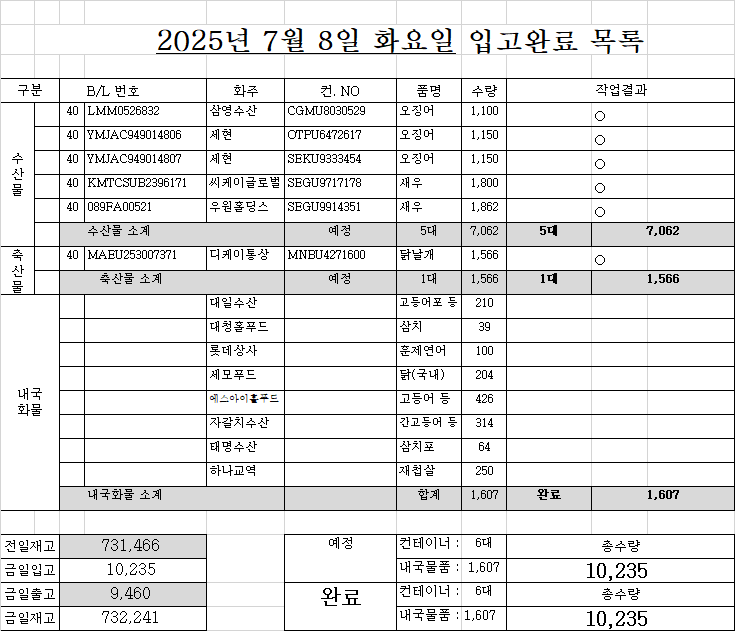
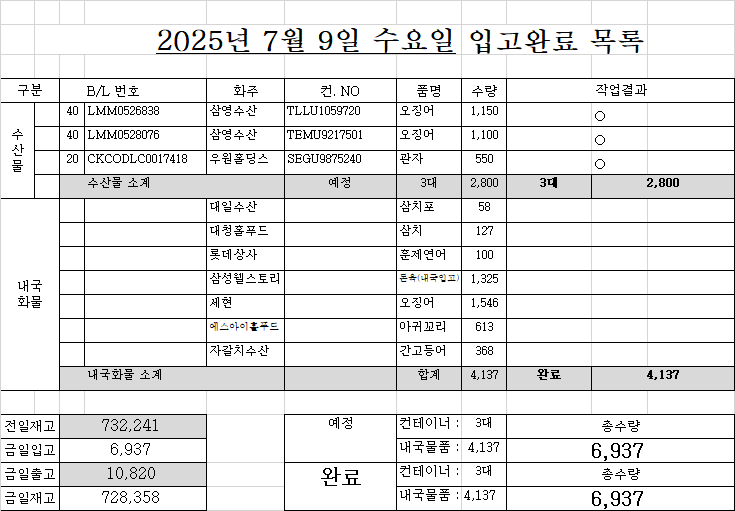
ㄴㅇㄹㄴㅇㄹ

diff --git a/list.html b/list.html
@@ -118,36 +118,36 @@
 </div>
 <!-- ★★★★★★ 따로 빼 놔야한다. 복붙하면 첫칸 비어도 되는데, 여기서는 첫칸비우면 당겨진다. -->
 <!-- ★ 엑셀범위를 브라우저 textarea에 붙여넣으면 첫셀 비어도 제대로 되는데... HTML에 붙여놓은 자료는 처음셀이 비어있으면 당겨짐 -->
-<div class="d-none" id="원본text_리스트1부터w요약열까지">작성	면허	B/LNO.	화주	컨테이너NO.	품명	수량	반입NO.	입항일	구분	도착일	도착시간	구분	운.도VBA	07/08 화 16:29	화찰BL	화찰 선명	화물관리번호	화찰수량	화찰중량	화찰입항	리스트시트기준열	
-1		CKCODLC0017418	우원홀딩스	SEGU9875240	관자	550 	BPT감만	7/6	1			20 	BPT감만			EASLINE LIANYUNGANG					07/08 화 16:29	
-1	○	LMM0526838	삼영수산	TLLU1059720	오징어	1,150 	EZ신항.BNCT	7/8	1				EZ신항.BNCT		LMM0526838	CMA CGM GANGES	25CMAL0350I-2046-	1,150 	24,230.00 	2025.07.08	조회정보	
-1	○	LMM0528076	삼영수산	TEMU9217501	오징어	1,100 	EZ신항.BNCT	7/8	1				EZ신항.BNCT		LMM0528076	CMA CGM GANGES	25CMAL0350I-2100-	1,100 	24,290.00 	2025.07.08	적재	57 
-1		SGN500863600	씨케이글로벌	PCIU6107758	새우	2,100 	BPT신선대	7/8	1				BPT신선대			KOTA GAYA					4,617 	3줄
-1	○	INFHCM2506136	우원홀딩스	SZLU2038230	새우	800 		7/8	1			20 			INFHCM2506136	KOTA GAYA	25PILK0067I-5051-0001	800 	6,400.00 	2025.07.08	6,156 	4줄
-1	○	MEDUP3933363	세현	TEMU9051236	오징어	1,150 	PNIT	7/9	1				PNIT		MEDUP3933363	MSC NOA ARIELA	25MSCU6135I-0004-	1,150 	24,940.00 	2025.07.08	7,695 	5줄
-1	○	MEDUP3933389	세현	TEMU9212900	오징어	1,149 	PNIT	7/9	1				PNIT		MEDUP3933389	MSC NOA ARIELA	25MSCU6135I-0005-	1,149 	24,470.00 	2025.07.08	9,234 	6줄
-1	○	MEDUP3933405	세현	CRSU6127452	오징어	1,150 	PNIT	7/9	1				PNIT		MEDUP3933405	MSC NOA ARIELA	25MSCU6135I-0003-	1,150 	24,650.00 	2025.07.08		
-		SNKO190250601634	대상 주식회사	FBIU5101516	닭다리살	2,310 	BPT신선대	7/9	2				BPT신선대			DONGJIN CONFIDENT					출고/입고 4주간	
-		COSU6413958750	대상 주식회사	SZLU9668776	닭다리살	1,916 	BNCT	7/10	2				BNCT			COSCO FAITH					1일 7/5	5일줄
-		COSU6453343970	대성무역	SZLU9213859	닭다리살	1,960 	BNCT	7/10	2				BNCT			COSCO FAITH					11,653 	37.9
-		YMJAI209523350	세현	YMLU5452898	오징어	1,971 	HPNT	7/10	1				HPNT			YM THRONE					11,125 	36.1
-		YMJAI209523350	세현	YMLU5454801	오징어	1,480 	HPNT	7/10	1				HPNT			YM THRONE					내국제외	
-		SNKO190250603201	더맛있는하루	FSCU5911924	닭다리살	1,917 	BPT신선대	7/13	2				BPT신선대			SAWASDEE INCHEON					구분	대수
-		COSU6419349580	(유)SM무역	TEMU9292300	오징어	1,200 	BNCT	7/15	1				BNCT			CMA CGM ARKANSAS					수산	11
-																					축산	4
-																					합계	15
-																						
-																					화주별 요약	
-																					화주	대수
+<div class="d-none" id="원본text_리스트1부터w요약열까지">작성	면허	B/LNO.	화주	컨테이너NO.	품명	수량	반입NO.	입항일	구분	도착일	도착시간	구분	운.도VBA	07/09 수 16:26	화찰BL	화찰 선명	화물관리번호	화찰수량	화찰중량	화찰입항	리스트시트기준열	
+1	○	INFHCM2506136	우원홀딩스	SZLU2038230	새우	800 		7/8	1			20 			INFHCM2506136	KOTA GAYA	25PILK0067I-5051-0001	800 	6,400.00 	2025.07.08	07/09 수 16:26	
+1	○	MEDUP3933405	세현	CRSU6127452	오징어	1,150 	PNIT	7/9	1				PNIT		MEDUP3933405	MSC NOA ARIELA	25MSCU6135I-0003-	1,150 	24,650.00 	2025.07.08	조회정보	
+1	○	SNKO190250601634	대상 주식회사	FBIU5101516	닭다리살	2,310 	BPT신선대	7/9	2				BPT신선대		SNKO190250601634	DONGJIN CONFIDENT	25DJSC7066I-6017-	2,310 	24,948.00 	2025.07.08	적재	57 
+2		SGN500863600	씨케이글로벌	PCIU6107758	새우	2,100 	BPT신선대	7/8	1				BPT신선대			KOTA GAYA					4,617 	3줄
+2	○	MEDUP3933363	세현	TEMU9051236	오징어	1,150 	PNIT	7/9	1				PNIT		MEDUP3933363	MSC NOA ARIELA	25MSCU6135I-0004-	1,150 	24,940.00 	2025.07.08	6,156 	4줄
+2	○	MEDUP3933389	세현	TEMU9212900	오징어	1,149 	PNIT	7/9	1				PNIT		MEDUP3933389	MSC NOA ARIELA	25MSCU6135I-0005-	1,149 	24,470.00 	2025.07.08	7,695 	5줄
+		COSU6413958750	대상 주식회사	SZLU9668776	닭다리살	1,916 	BNCT	7/10	2				BNCT			COSCO FAITH					9,234 	6줄
+		COSU6453343970	대성무역	SZLU9213859	닭다리살	1,960 	BNCT	7/10	2				BNCT			COSCO FAITH						
+		YMJAI209523350	세현	YMLU5452898	오징어	1,971 	HPNT	7/10	1				HPNT			YM THRONE					출고/입고 4주간	
+		YMJAI209523350	세현	YMLU5454801	오징어	1,480 	HPNT	7/10	1				HPNT			YM THRONE					1일 7/5	5일줄
+		TM225070081F	우원홀딩스	SEGU9996745	새우	850 		7/12	1			20 									11,302 	36.7
+		SNKO190250603201	더맛있는하루	FSCU5911924	닭다리살	1,917 	BPT신선대	7/13	2				BPT신선대			SAWASDEE INCHEON					10,649 	34.6
+		COSU6419349580	(유)SM무역	TEMU9292300	오징어	1,200 	BNCT	7/15	1				BNCT			CMA CGM ARKANSAS					내국제외	
+		HLCULI3250649511	삼영수산	HLBU9158748	오징어	1,100 		8/4	1												구분	대수
+		HLCULI3250649511	삼영수산	UACU4769686	오징어	1,100 		8/4	1												수산	16
+		HLCULI3250649522	삼영수산	CAIU5653268	오징어	1,100 		8/14	1												축산	4
+		HLCULI3250649522	삼영수산	HLBU9353298	오징어	1,100 		8/14	1												합계	20
+		HLCULI3250649522	삼영수산	TCLU1122721	오징어	1,100 		8/14	1													
+		HLCULI3250649544	삼영수산	HLBU9066700	오징어	1,150 		8/14	1												화주별 요약	
+		HLCULI3250649544	삼영수산	HLBU9472677	오징어	1,150 		8/14	1												화주	대수
+																					삼영수산	7
 																					세현	5
 																					우원홀딩스	2
-																					삼영수산	2
 																					대상 주식회사	2
 																					씨케이글로벌	1
 																					대성무역	1
 																					더맛있는하루	1
 																					(유)SM무역	1
-																					합계	15
+																					합계	20
 </div>
 <div class="d-none" id="원본text_입항관리도크부터도착항우측까지">도크	화주	컨테이너	작업순서	상세내용 참조		운송사	물품		06/05 목 16:15	B/L	도착항	상세내용
 </div>   

diff --git a/index.html b/index.html
@@ -1609,8 +1609,9 @@
         <h6 style="color:blueviolet;" class="fw-bold" >-- 규정에 있는 대장, 게시 --</h6>
         <h6 class="canvas_div" title="_07_대장게시등_게시사항" >특허장의 게시 등 : 간판, 안내문, 게시사항</h6>
         <h6 class="canvas_div" title="_07_보세사의직무" style="color:blueviolet;">-- 대장 관련, 보세사제도 운영에 관한 고시 제10조(보세사의 직무) (div)--</h6>
-        <h6 class="canvas_div" title="_07_대장게시등_설명이필요한대장들">화물관련 대장 (간단한 설명) </h6>
-        <h6 style="color:blueviolet;" class="fw-bold" >-- 대장 작성방법 --</h6>
+        <h6 class="canvas_div" title="_07_대장게시등_설명이필요한대장들">화물관련 대장 (종류) </h6>
+        <h6 style="color:blueviolet;" class="fw-bold" >-- 대장 작성방법 및 설명 --</h6>
+        <h6 class="canvas_div" title="_07_대장게시등_대장작성방법">화물관련 대장 (종류) </h6>
       </div>
       <div>
         <h6 style="color:blueviolet;" class="fw-bold" >-- 용어 및 참고 --</h6>
@@ -1998,6 +1999,16 @@
     <h4 id="move15" class="목차">&#9634; [?] 반송화물 반출보고서</h4>
     <br><br><br><br>
   </section>
+
+  <div id="_07_대장게시등_대장작성방법">
+    <h5>세관봉인대 관리대장</h5>
+    <h6>1.CY에서 CFS로 이동하여 물건 빼서 다른곳으로 적재시</h6>
+    <h6>2.검색기 대상화물 : 관세청 납작하고 빨간씰, 빨간봉? 빨간테두리? 둥근씰 등  기록해야함</h6>
+  </div>
+
+
+
+  
 
   <section id="_02_세관_01_조직도업무분장연락처"><div id="스크립트로ul추가"></div>
     <h4 class="목차">&#9634; 부산 본부세관 고유 부호 : 030, 동일냉장 고유 부호 : 11597</h4>
